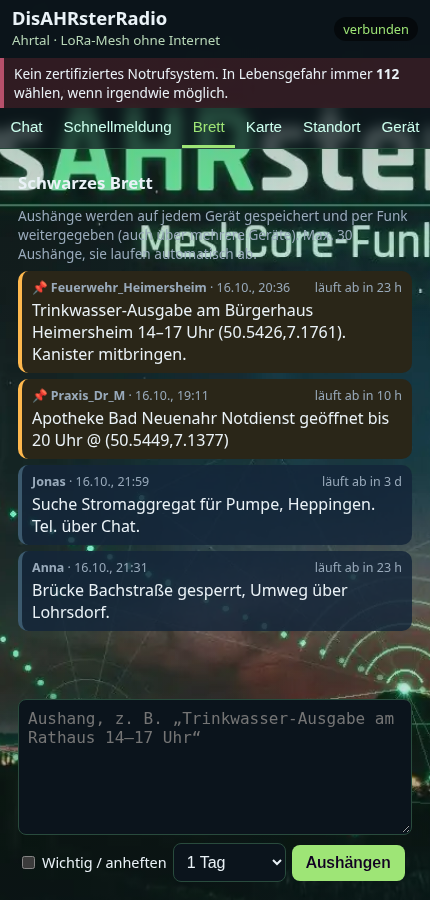
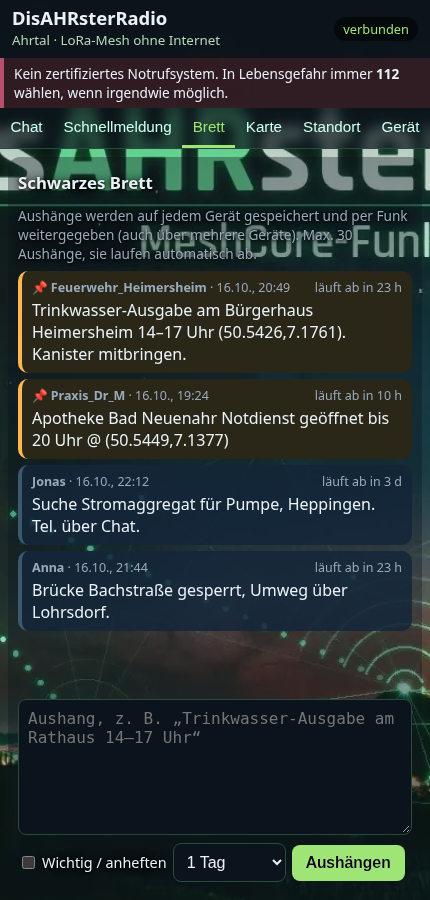
Weboberfläche: bessere Lesbarkeit auf dem Hintergrundbild

diff --git a/web/static/index.html b/web/static/index.html
@@ -16,7 +16,7 @@ header .t{flex:1}header h1{margin:0;font-size:1.15rem;line-height:1.1}header sma
 .warn{background:#3a1d26cc;border-left:4px solid var(--wine);padding:6px 10px;font-size:.85rem}
 nav{display:flex;background:#0b141cb0;backdrop-filter:blur(6px);-webkit-backdrop-filter:blur(6px);border-bottom:1px solid var(--line);overflow-x:auto}nav button{flex:1 0 auto;background:none;border:0;color:#cfe;padding:10px 6px;font-size:.95rem;border-bottom:3px solid transparent}
 nav button.on{border-color:var(--mesh);color:var(--mesh)}
-main{flex:1;display:flex;flex-direction:column;min-height:0}section{display:none;padding:10px;margin:8px;border-radius:12px;background:transparent;flex:1;flex-direction:column;gap:8px}section.on{display:flex}
+main{flex:1;display:flex;flex-direction:column;min-height:0}section{display:none;padding:10px;margin:8px;border-radius:12px;background:#0b141c59;flex:1;flex-direction:column;gap:8px}section.on{display:flex}
 #log{flex:1;overflow-y:auto;min-height:200px;display:flex;flex-direction:column;gap:5px}
 .m{background:var(--card);border-radius:8px;padding:6px 9px;max-width:92%;word-wrap:break-word}.m.self{align-self:flex-end;background:#1f3d2cdd}.m.sys{align-self:center;background:#0b141c99;color:#9ab;font-size:.85rem}
 .m .n{color:var(--mesh);font-weight:600;margin-right:4px}.m .tm{color:#789;font-size:.7rem;margin-left:6px}.m .pend{color:#fc6}
@@ -35,6 +35,7 @@ h2{margin:4px 0;font-size:1.05rem}
 #map{position:absolute;inset:0;width:100%;height:100%}#mapattr{position:absolute;right:4px;bottom:2px;font-size:.62rem;color:#9ab;background:#0009;padding:1px 4px}
 #mapctl{position:absolute;left:6px;top:6px;display:flex;flex-direction:column;gap:4px}#mapctl button{width:34px;height:34px;padding:0;font-size:1.1rem}
 .legend{font-size:.78rem;color:#9ab;display:flex;gap:10px;flex-wrap:wrap}.legend i{display:inline-block;width:10px;height:10px;border-radius:50%;margin-right:3px;vertical-align:-1px}
+section h2,section p,.row label{text-shadow:0 1px 3px #000,0 0 8px #000}
 </style></head><body>
 <header><div class="t"><h1>DisAHRsterRadio</h1><small>Ahrtal · LoRa-Mesh ohne Internet</small></div><div id="st" class="bad">getrennt</div></header>
 <div class="warn">Kein zertifiziertes Notrufsystem. In Lebensgefahr immer <b>112</b> wählen, wenn irgendwie möglich.</div>
